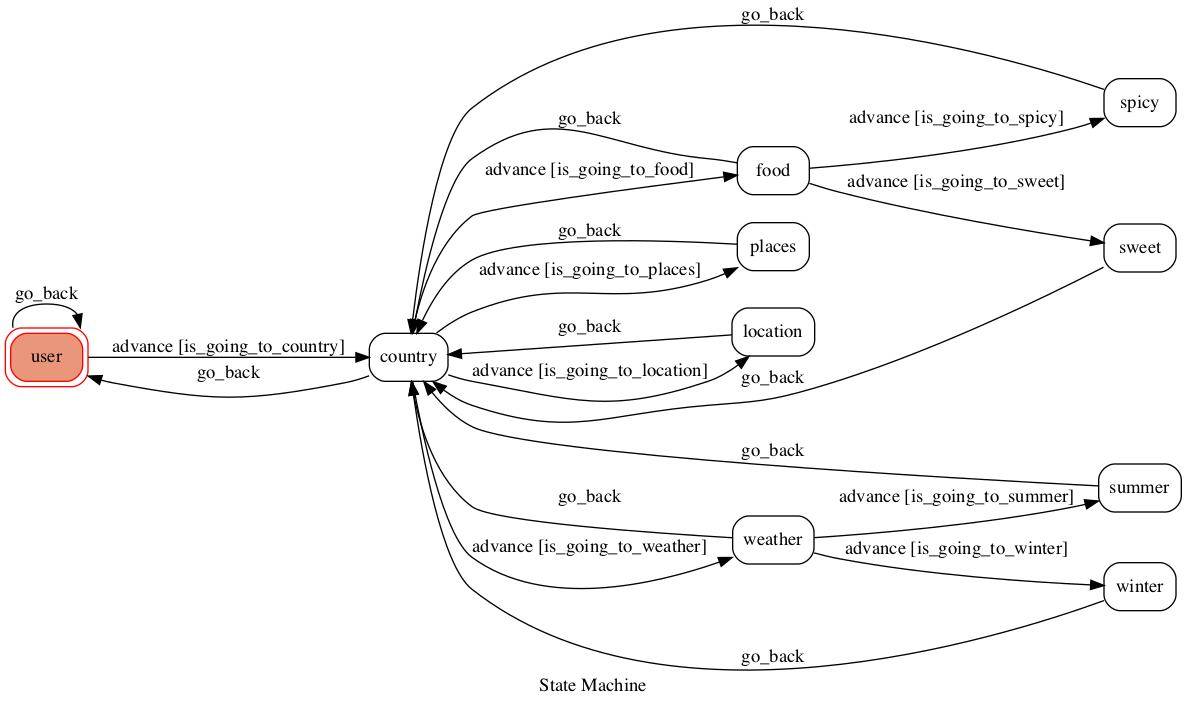
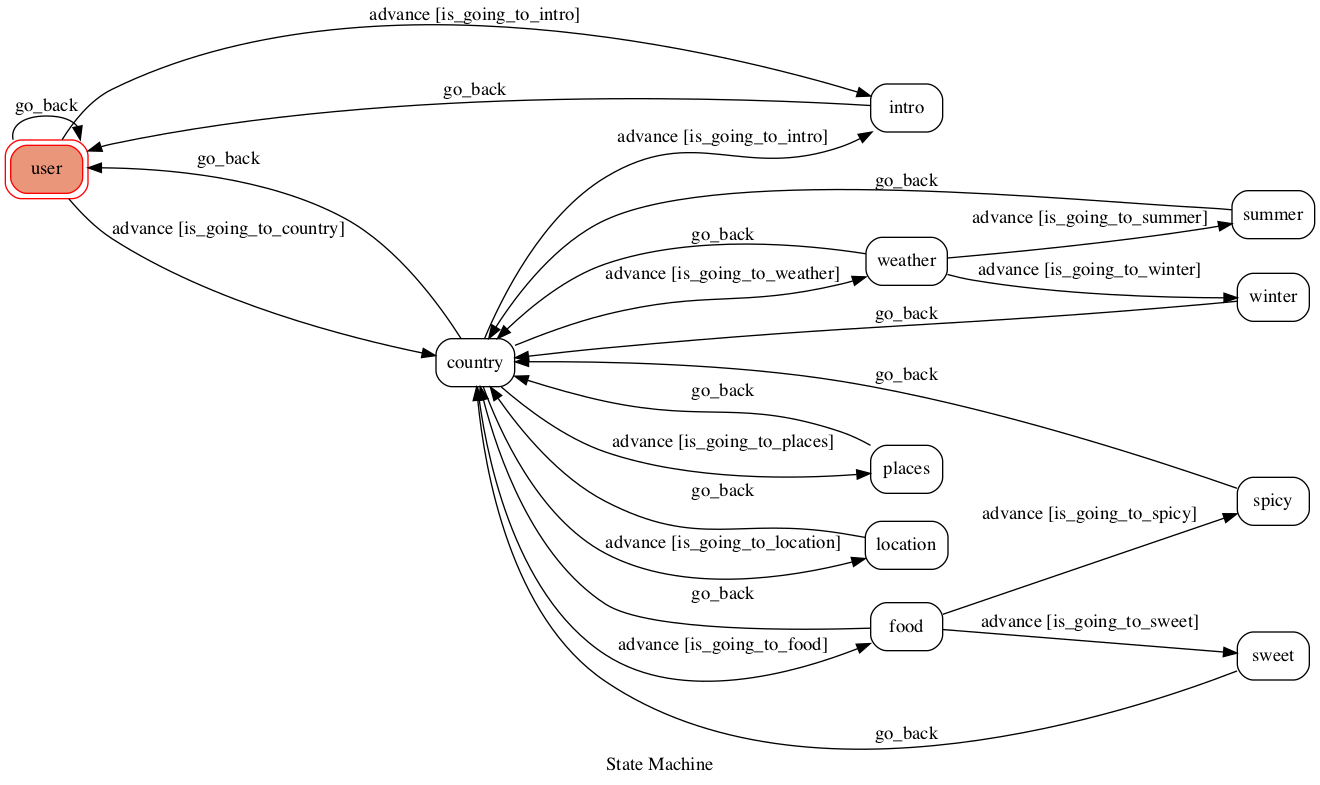
done

diff --git a/fsm.py b/fsm.py
@@ -8,6 +8,11 @@ class TocMachine(GraphMachine):
 
 #user = country = food,weather,places
 
+    #introduction
+    def is_going_to_intro(self, event):
+        text = event.message.text
+        return text.lower() == "hi" 
+
     #COUNTRY*****************************
     def is_going_to_country(self, event):
         text = event.message.text
@@ -57,16 +62,13 @@ class TocMachine(GraphMachine):
 
 
 
-
-
-
-
-
-
-
-
-
-
+   #******INTRO*****************************
+    def on_enter_intro(self, event):
+        print("I'm entering intro")
+        reply_token = event.reply_token
+        push_message("U60b1a8f3b7c86bf15a8422a5d280b43a","Hi There!")
+        send_sticker("U60b1a8f3b7c86bf15a8422a5d280b43a",'11537','52002738')
+        self.go_back()
 
 
 
@@ -78,14 +80,6 @@ class TocMachine(GraphMachine):
         send_sticker("U60b1a8f3b7c86bf15a8422a5d280b43a",'11537','52002735')
         #send_text_message(reply_token, "India")
 
-   #******OKAY*****************************
-    def on_enter_okay(self, event):
-        print("I'm entering country")
-        reply_token = event.reply_token
-        self.go_back()
-
-    def on_exit_okay(self): 
-        print("Leaving okay")
 
 
     #******FOOD*****************************

diff --git a/app.py b/app.py
@@ -14,6 +14,7 @@ load_dotenv()
 machine = TocMachine(
     states=[
             "user",
+            "intro",
             "country",
             "food" ,
             "spicy",
@@ -30,6 +31,7 @@ machine = TocMachine(
     transitions=[
 
         { "trigger": "advance", "source": "user",       "dest": "country",   "conditions": "is_going_to_country",  },
+        { "trigger": "advance", "source": ["user","country"],       "dest": "intro",     "conditions": "is_going_to_intro",  },
 
         { "trigger": "advance", "source": "country",    "dest": "food",      "conditions": "is_going_to_food",     },
         { "trigger": "advance", "source": "food",       "dest": "spicy",     "conditions": "is_going_to_spicy",    },
@@ -55,7 +57,7 @@ machine = TocMachine(
 
         {
             "trigger":  "go_back", 
-            "source":   ["user", "country"],
+            "source":   ["user", "country", "intro"],
             "dest":      "user" 
         },
 
